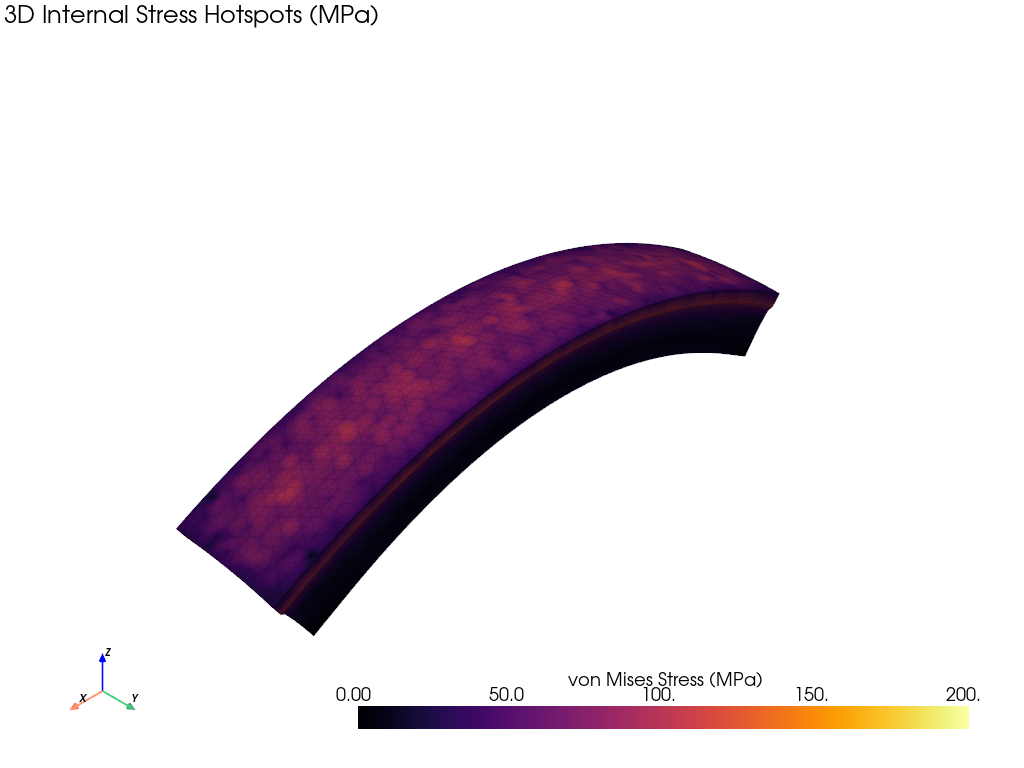
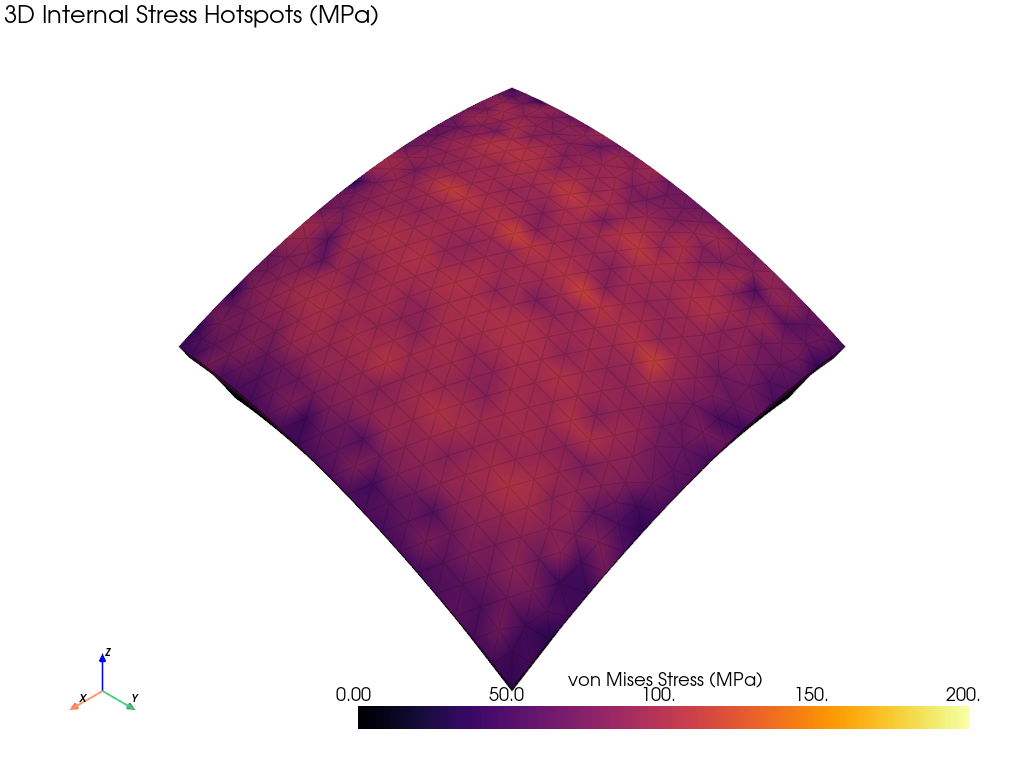
Add C3D10 quadratic mesh and quarter-symmetry 64-bump BGA simulation

Changed region(s): [[0.1562, 0.0938, 0.8438, 0.9062]]

diff --git a/bga_fea/run_quarter_bga.py b/bga_fea/run_quarter_bga.py
@@ -1,0 +1,218 @@
+import subprocess
+import gmsh
+import numpy as np
+
+# ==========================================
+# PARAMETERS (Quarter of a 10mm x 10mm Square Chip)
+# ==========================================
+use_underfill = True   # Compare True vs False later!
+L_quarter = 5.0        # Half-length of 10 mm chip (mm)
+W_quarter = 5.0        # Half-width of 10 mm chip (mm)
+h_fr4 = 0.8            # FR4 substrate thickness (mm)
+h_gap = 0.1            # Solder & underfill gap thickness (mm)
+h_si = 0.2             # Silicon die thickness (mm)
+
+solder_radius = 0.15   # Radius of each SAC305 solder joint (mm)
+grid_coords = [1.0, 2.0, 3.0, 4.0]  # 4x4 = 16 joints in this quarter (64 total on full chip!)
+mesh_size = 0.25       # Balanced mesh size so 16 solder joints solve in ~5 seconds
+
+# ==========================================
+# STAGE 0: OPEN THE LAB
+# ==========================================
+gmsh.initialize()
+gmsh.model.add("quarter_symmetry_bga")
+
+# ==========================================
+# STAGE 1: GLUE (2D Grid of 16 Solder Columns + Underfill + FR4 + Silicon)
+# ==========================================
+fr4 = gmsh.model.occ.addBox(0, 0, 0.0, L_quarter, W_quarter, h_fr4)
+si = gmsh.model.occ.addBox(0, 0, h_fr4 + h_gap, L_quarter, W_quarter, h_si)
+
+# Nested loop creates a 2D 4x4 checkerboard grid of 16 solder joints!
+solder_cylinders = []
+for x_pos in grid_coords:
+    for y_pos in grid_coords:
+        cyl = gmsh.model.occ.addCylinder(x_pos, y_pos, h_fr4, 0, 0, h_gap, solder_radius)
+        solder_cylinders.append((3, cyl))
+
+if use_underfill:
+    uf_block = gmsh.model.occ.addBox(0, 0, h_fr4, L_quarter, W_quarter, h_gap)
+    uf_cut, _ = gmsh.model.occ.cut([(3, uf_block)], solder_cylinders, removeTool=False)
+    all_vols = [(3, fr4), (3, si)] + solder_cylinders + uf_cut
+else:
+    all_vols = [(3, fr4), (3, si)] + solder_cylinders
+
+out, _ = gmsh.model.occ.fragment(all_vols[:1], all_vols[1:])
+gmsh.model.occ.synchronize()
+
+# Tag volumes by Z-height and X-span
+fr4_tags, si_tags, solder_tags, uf_tags = [], [], [], []
+for dim, tag in out:
+    xmin, ymin, zmin, xmax, ymax, zmax = gmsh.model.getBoundingBox(dim, tag)
+    z_mid = 0.5 * (zmin + zmax)
+    if z_mid < h_fr4:
+        fr4_tags.append(tag)
+    elif z_mid > h_fr4 + h_gap:
+        si_tags.append(tag)
+    else:
+        if (xmax - xmin) > 2.5:
+            uf_tags.append(tag)
+        else:
+            solder_tags.append(tag)
+
+gmsh.model.addPhysicalGroup(3, fr4_tags, name="FR4_SUBSTRATE")
+gmsh.model.addPhysicalGroup(3, si_tags, name="SILICON_DIE")
+gmsh.model.addPhysicalGroup(3, solder_tags, name="SAC305_SOLDER")
+if use_underfill and uf_tags:
+    gmsh.model.addPhysicalGroup(3, uf_tags, name="UNDERFILL_LAYER")
+
+# ==========================================
+# STAGE 2: MESH (Slice Into 3D Pyramids)
+# ==========================================
+gmsh.option.setNumber("Mesh.SaveAll", 0)
+gmsh.option.setNumber("Mesh.CharacteristicLengthMax", mesh_size)
+gmsh.model.mesh.generate(3)
+gmsh.write("mesh_only.inp")
+gmsh.finalize()
+# ==========================================
+# STAGE 3: PIN (Quarter-Symmetry Mirror Walls)
+# ==========================================
+nodes = {}
+with open("mesh_only.inp", "r") as f:
+    in_nodes = False
+    for line in f:
+        if line.startswith("*NODE"):
+            in_nodes = True
+            continue
+        if line.startswith("*"):
+            in_nodes = False
+        if in_nodes and line.strip():
+            parts = [p.strip() for p in line.split(",")]
+            nodes[int(parts[0])] = (float(parts[1]), float(parts[2]), float(parts[3]))
+
+all_node_ids = sorted(nodes.keys())
+
+# Find all nodes on the X=0 mirror wall and Y=0 mirror wall
+sym_x_nodes = [nid for nid, (x, y, z) in nodes.items() if abs(x) < 1e-5]
+sym_y_nodes = [nid for nid, (x, y, z) in nodes.items() if abs(y) < 1e-5]
+n_center = min(all_node_ids, key=lambda i: (nodes[i][0]**2 + nodes[i][1]**2 + nodes[i][2]**2))
+
+with open("nall.nam", "w") as f:
+    f.write("*NSET, NSET=NALL\n")
+    for i in range(0, len(all_node_ids), 10):
+        f.write(", ".join(map(str, all_node_ids[i:i + 10])) + "\n")
+
+    f.write("*NSET, NSET=SYM_X\n")
+    for i in range(0, len(sym_x_nodes), 10):
+        f.write(", ".join(map(str, sym_x_nodes[i:i + 10])) + "\n")
+
+    f.write("*NSET, NSET=SYM_Y\n")
+    for i in range(0, len(sym_y_nodes), 10):
+        f.write(", ".join(map(str, sym_y_nodes[i:i + 10])) + "\n")
+
+# ==========================================
+# STAGE 4: HEAT / COOL (Physics Deck & Solve)
+# ==========================================
+uf_material_block = """
+*MATERIAL, NAME=UNDERFILL
+*ELASTIC
+8500.0, 0.30
+*EXPANSION, ZERO=250.0
+30.0E-6
+*SOLID SECTION, ELSET=UNDERFILL_LAYER, MATERIAL=UNDERFILL
+""" if use_underfill else ""
+
+uf_print_block = """*EL PRINT, ELSET=UNDERFILL_LAYER
+S
+""" if use_underfill else ""
+
+physics_deck = f"""*INCLUDE, INPUT=mesh_only.inp
+*INCLUDE, INPUT=nall.nam
+
+*MATERIAL, NAME=FR4
+*ELASTIC
+18000.0, 0.28
+*EXPANSION, ZERO=250.0
+16.0E-6
+
+*MATERIAL, NAME=SILICON
+*ELASTIC
+130000.0, 0.28
+*EXPANSION, ZERO=250.0
+2.6E-6
+
+*MATERIAL, NAME=SAC305
+*ELASTIC
+50000.0, 0.35
+*EXPANSION, ZERO=250.0
+21.5E-6
+
+*SOLID SECTION, ELSET=FR4_SUBSTRATE, MATERIAL=FR4
+*SOLID SECTION, ELSET=SILICON_DIE, MATERIAL=SILICON
+*SOLID SECTION, ELSET=SAC305_SOLDER, MATERIAL=SAC305
+{uf_material_block}
+*BOUNDARY
+SYM_X, 1, 1, 0.0
+SYM_Y, 2, 2, 0.0
+{n_center}, 3, 3, 0.0
+
+*INITIAL CONDITIONS, TYPE=TEMPERATURE
+NALL, 250.0
+
+*STEP
+*STATIC
+*TEMPERATURE
+NALL, 25.0
+*NODE PRINT, NSET=NALL
+U
+*EL PRINT, ELSET=SAC305_SOLDER
+S
+*EL PRINT, ELSET=SILICON_DIE
+S
+*EL PRINT, ELSET=FR4_SUBSTRATE
+S
+{uf_print_block}*END STEP
+"""
+
+with open("sim.inp", "w") as f:
+    f.write(physics_deck)
+
+print(f"Running Quarter-Symmetry 2D Array solver (16 joints = 64-bump full chip)...")
+subprocess.run(["ccx", "sim"], check=True)
+
+# ==========================================
+# STAGE 5: CHECK (Warpage & Peak Diagonal Corner Solder Stress)
+# ==========================================
+z_displacements = []
+solder_vm_stresses = []
+
+with open("sim.dat", "r") as f:
+    mode = None
+    current_set = ""
+    for line in f:
+        if "displacements" in line:
+            mode = "U"
+            continue
+        elif "stresses" in line:
+            mode = "S"
+            current_set = "SAC305" if "SAC305_SOLDER" in line else "OTHER"
+            continue
+        parts = line.split()
+        if not parts:
+            continue
+        if mode == "U" and len(parts) == 4 and parts[0].isdigit():
+            z_displacements.append(float(parts[3]))
+        elif mode == "S" and current_set == "SAC305" and len(parts) == 8 and parts[0].isdigit():
+            sxx, syy, szz, sxy, sxz, syz = [float(x) for x in parts[2:8]]
+            vm = np.sqrt(
+                0.5 * ((sxx - syy)**2 + (syy - szz)**2 + (szz - sxx)**2)
+                + 3.0 * (sxy**2 + sxz**2 + syz**2)
+            )
+            solder_vm_stresses.append(vm)
+
+warpage_um = (max(z_displacements) - min(z_displacements)) * 1000.0
+max_solder_stress = max(solder_vm_stresses) if solder_vm_stresses else 0.0
+
+print(f"\n--- QUARTER-SYMMETRY 64-BUMP BGA RESULTS (use_underfill = {use_underfill}) ---")
+print(f"2D Square Package Warpage:    {warpage_um:.2f} microns")
+print(f"Max Diagonal Corner Stress:   {max_solder_stress:.1f} MPa")

diff --git a/bga_fea/run_warpage_c3d10.py b/bga_fea/run_warpage_c3d10.py
@@ -1,0 +1,138 @@
+import subprocess
+import gmsh
+
+# 1. Initialize Gmsh and build a 3D two-layer strip (10mm x 2mm)
+gmsh.initialize()
+gmsh.model.add("silicon_fr4_strip")
+
+# Bottom layer: FR4 substrate (0.8 mm thick, z from 0 to 0.8)
+fr4 = gmsh.model.occ.addBox(0, 0, 0, 10.0, 2.0, 0.8)
+# Top layer: Silicon die (0.2 mm thick, z from 0.8 to 1.0)
+si = gmsh.model.occ.addBox(0, 0, 0.8, 10.0, 2.0, 0.2)
+
+# Glue the shared interface so nodes match seamlessly
+out, _ = gmsh.model.occ.fragment([(3, fr4)], [(3, si)])
+gmsh.model.occ.synchronize()
+
+# Assign volume groups so CalculiX knows which part is FR4 vs Silicon
+gmsh.model.addPhysicalGroup(3, [out[0][1]], name="FR4_SUBSTRATE")
+gmsh.model.addPhysicalGroup(3, [out[1][1]], name="SILICON_DIE")
+
+# Export ONLY physical 3D volume elements (prevents 1D/2D element errors in ccx)
+gmsh.option.setNumber("Mesh.SaveAll", 0)
+gmsh.option.setNumber("Mesh.CharacteristicLengthMax", 0.25)
+gmsh.option.setNumber("Mesh.ElementOrder", 2)
+gmsh.model.mesh.generate(3)
+
+gmsh.write("mesh_only.inp")
+gmsh.finalize()
+
+# 2. Extract all node IDs from mesh_only.inp so we can create NALL and pin 3 corners
+nodes = {}
+with open("mesh_only.inp", "r") as f:
+    in_nodes = False
+    for line in f:
+        if line.startswith("*NODE"):
+            in_nodes = True
+            continue
+        if line.startswith("*"):
+            in_nodes = False
+        if in_nodes and line.strip():
+            parts = [p.strip() for p in line.split(",")]
+            nodes[int(parts[0])] = (float(parts[1]), float(parts[2]), float(parts[3]))
+
+all_node_ids = sorted(nodes.keys())
+# Pick 3 non-collinear nodes on z=0 to prevent rigid-body floating without restricting bending
+n1 = min(all_node_ids, key=lambda i: (nodes[i][0]**2 + nodes[i][1]**2 + nodes[i][2]**2))
+n2 = min(all_node_ids, key=lambda i: ((nodes[i][0]-10.0)**2 + nodes[i][1]**2 + nodes[i][2]**2))
+n3 = min(all_node_ids, key=lambda i: (nodes[i][0]**2 + (nodes[i][1]-2.0)**2 + nodes[i][2]**2))
+
+# Write NALL node set file
+with open("nall.nam", "w") as f:
+    f.write("*NSET, NSET=NALL\n")
+    for i in range(0, len(all_node_ids), 10):
+        f.write(", ".join(map(str, all_node_ids[i:i+10])) + "\n")
+
+# 3. Write the CalculiX physics & thermal load deck
+physics_deck = f"""*INCLUDE, INPUT=mesh_only.inp
+*INCLUDE, INPUT=nall.nam
+
+*MATERIAL, NAME=FR4
+*ELASTIC
+18000.0, 0.28
+*EXPANSION, ZERO=250.0
+16.0E-6
+
+*MATERIAL, NAME=SILICON
+*ELASTIC
+130000.0, 0.28
+*EXPANSION, ZERO=250.0
+2.6E-6
+
+*SOLID SECTION, ELSET=FR4_SUBSTRATE, MATERIAL=FR4
+*SOLID SECTION, ELSET=SILICON_DIE, MATERIAL=SILICON
+
+*BOUNDARY
+{n1}, 1, 3, 0.0
+{n2}, 2, 3, 0.0
+{n3}, 3, 3, 0.0
+
+*INITIAL CONDITIONS, TYPE=TEMPERATURE
+NALL, 250.0
+
+*STEP
+*STATIC
+*TEMPERATURE
+NALL, 25.0
+*NODE PRINT, NSET=NALL
+U
+*NODE FILE
+U
+*EL FILE
+S
+*EL PRINT, ELSET=SILICON_DIE
+S
+*EL PRINT, ELSET=FR4_SUBSTRATE
+S
+*END STEP
+"""
+
+with open("sim.inp", "w") as f:
+    f.write(physics_deck)
+
+# 4. Run the CalculiX solver
+print("Running CalculiX solver...")
+subprocess.run(["ccx", "sim"], check=True)
+
+# 5. Read displacements from sim.dat and compute warpage (peak-to-valley Z)
+z_displacements = []
+with open("sim.dat", "r") as f:
+    reading = False
+    for line in f:
+        if "displacements" in line:
+            reading = True
+            continue
+        if reading and line.strip():
+            parts = line.split()
+            if len(parts) == 4 and parts[0].isdigit():
+                z_displacements.append(float(parts[3]))
+
+warpage_mm = max(z_displacements) - min(z_displacements)
+
+# 6. Compare with Timoshenko bi-material thermostat equation
+L = 10.0  # length (mm)
+dT = 25.0 - 250.0  # temperature change (-225 C)
+E1, h1, a1 = 18000.0, 0.8, 16.0e-6  # FR4
+E2, h2, a2 = 130000.0, 0.2, 2.6e-6  # Silicon
+h = h1 + h2
+m = h1 / h2
+n = E1 / E2
+
+curvature = (6 * (a2 - a1) * dT * (1 + m) ** 2) / (
+    h * (3 * (1 + m) ** 2 + (1 + m * n) * (m**2 + 1 / (m * n)))
+)
+timoshenko_warpage_mm = abs(curvature) * (L**2) / 8.0
+
+print(f"\n--- RESULTS ---")
+print(f"3D FEA Simulated Warpage:   {warpage_mm * 1000:.2f} microns")
+print(f"Timoshenko Analytical Math: {timoshenko_warpage_mm * 1000:.2f} microns")
